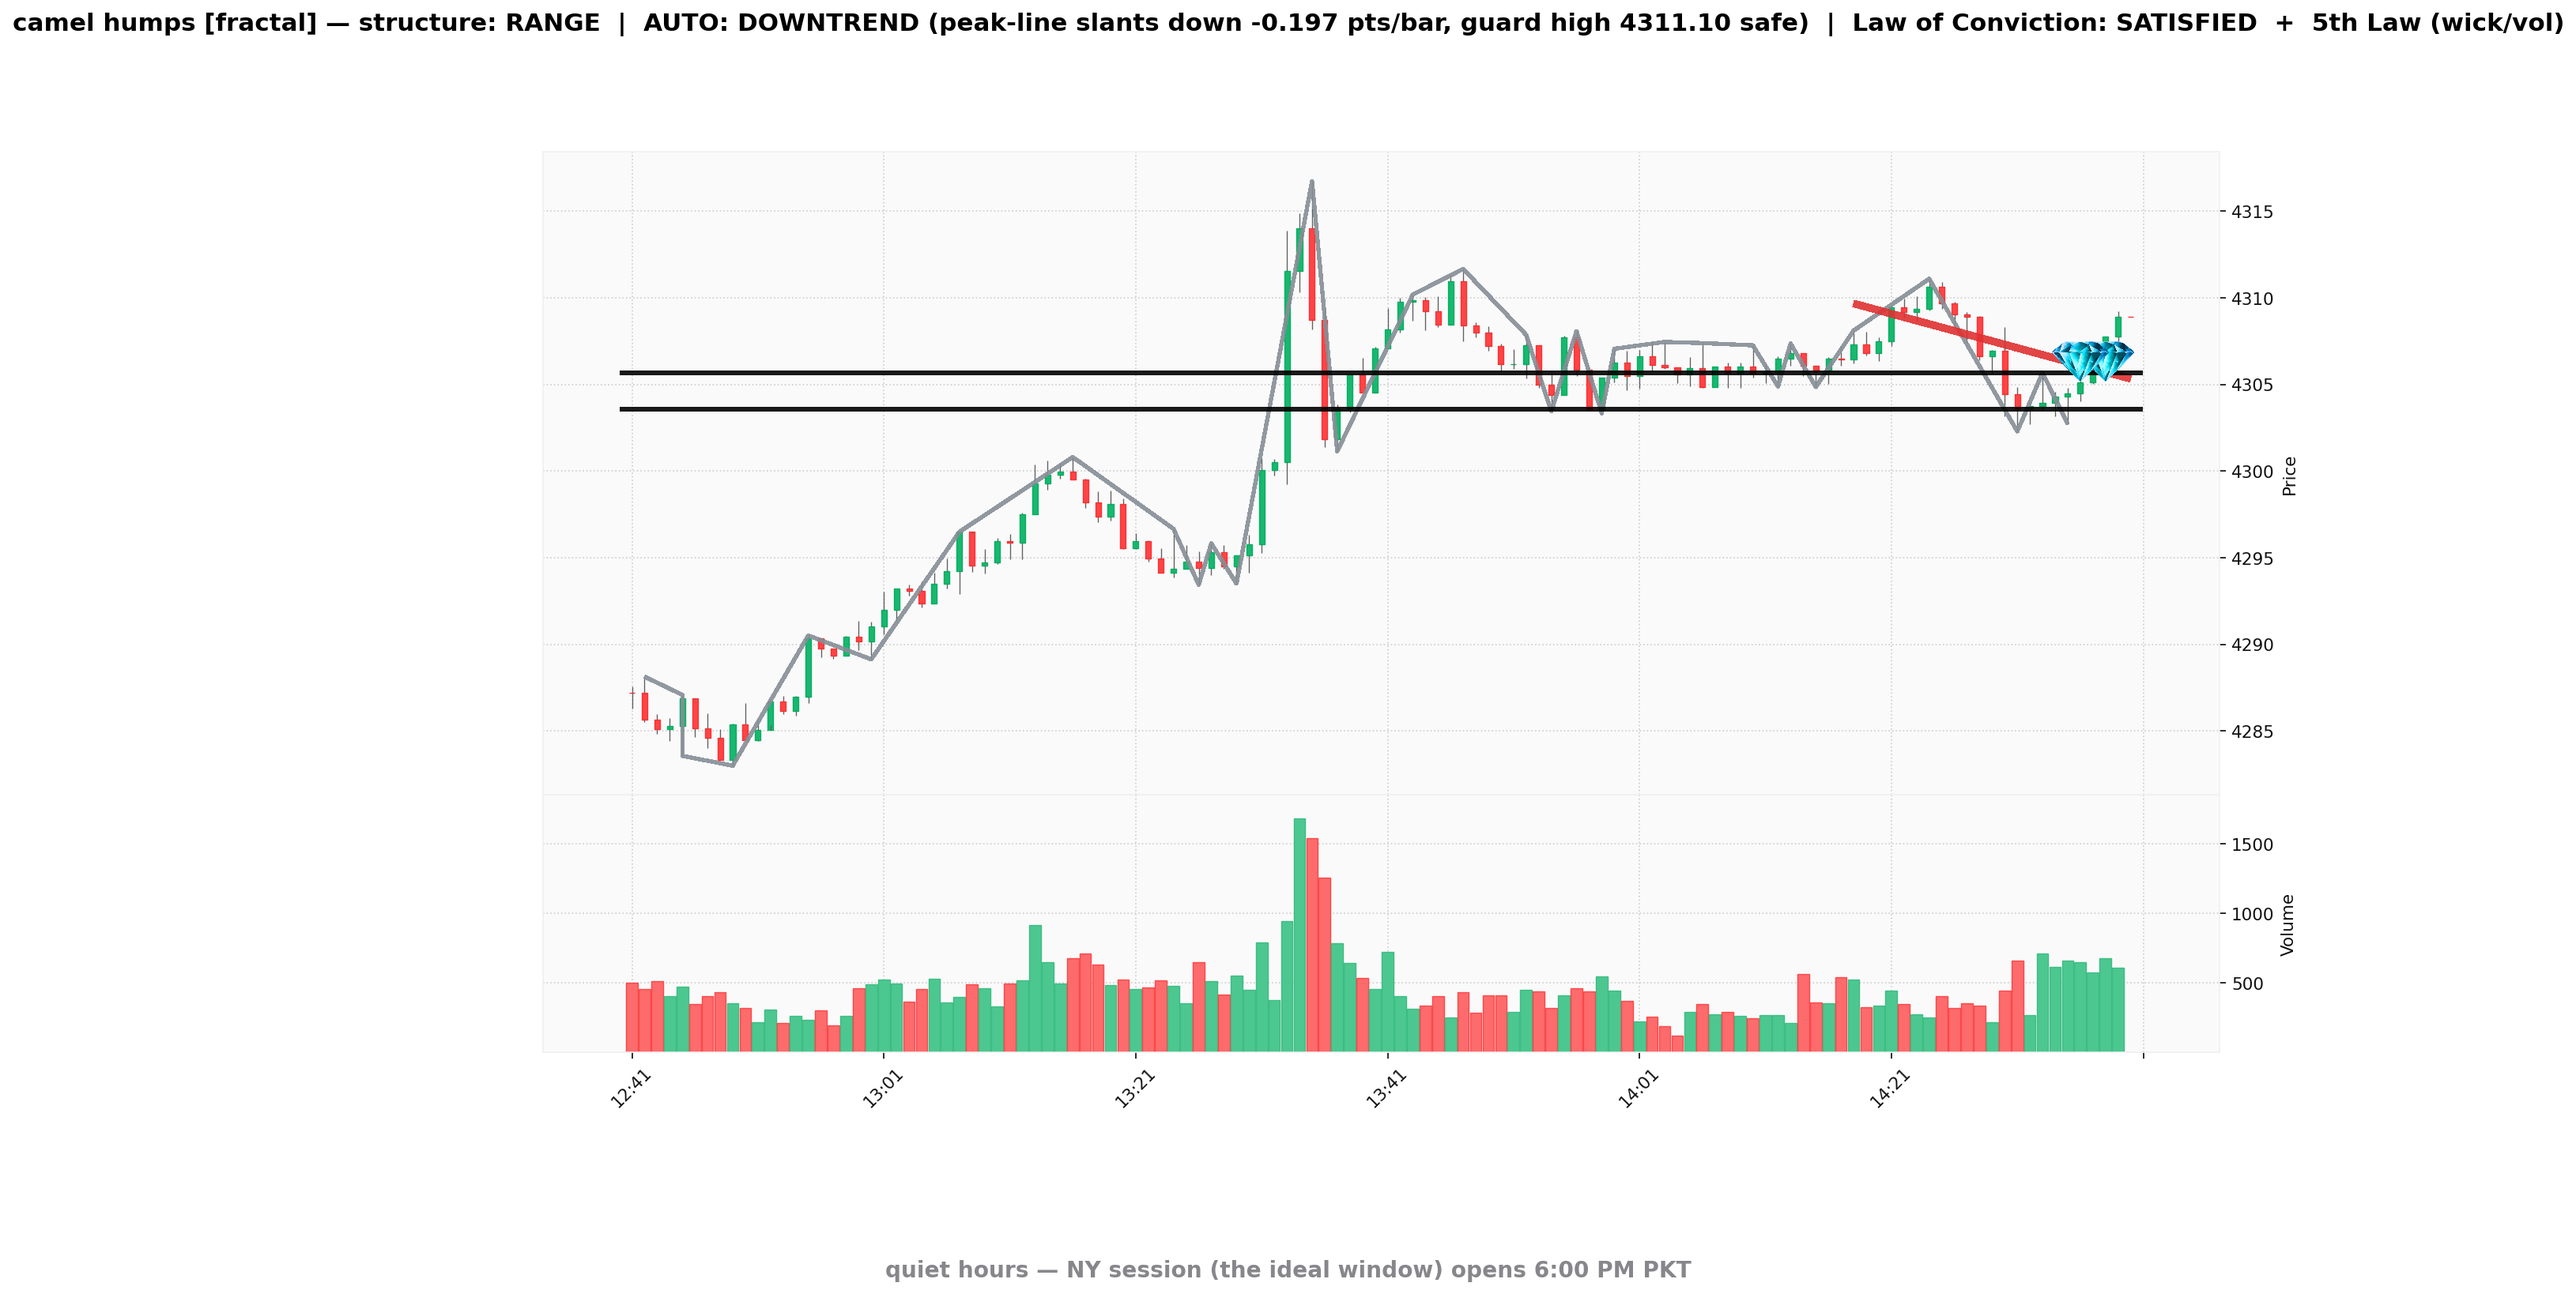
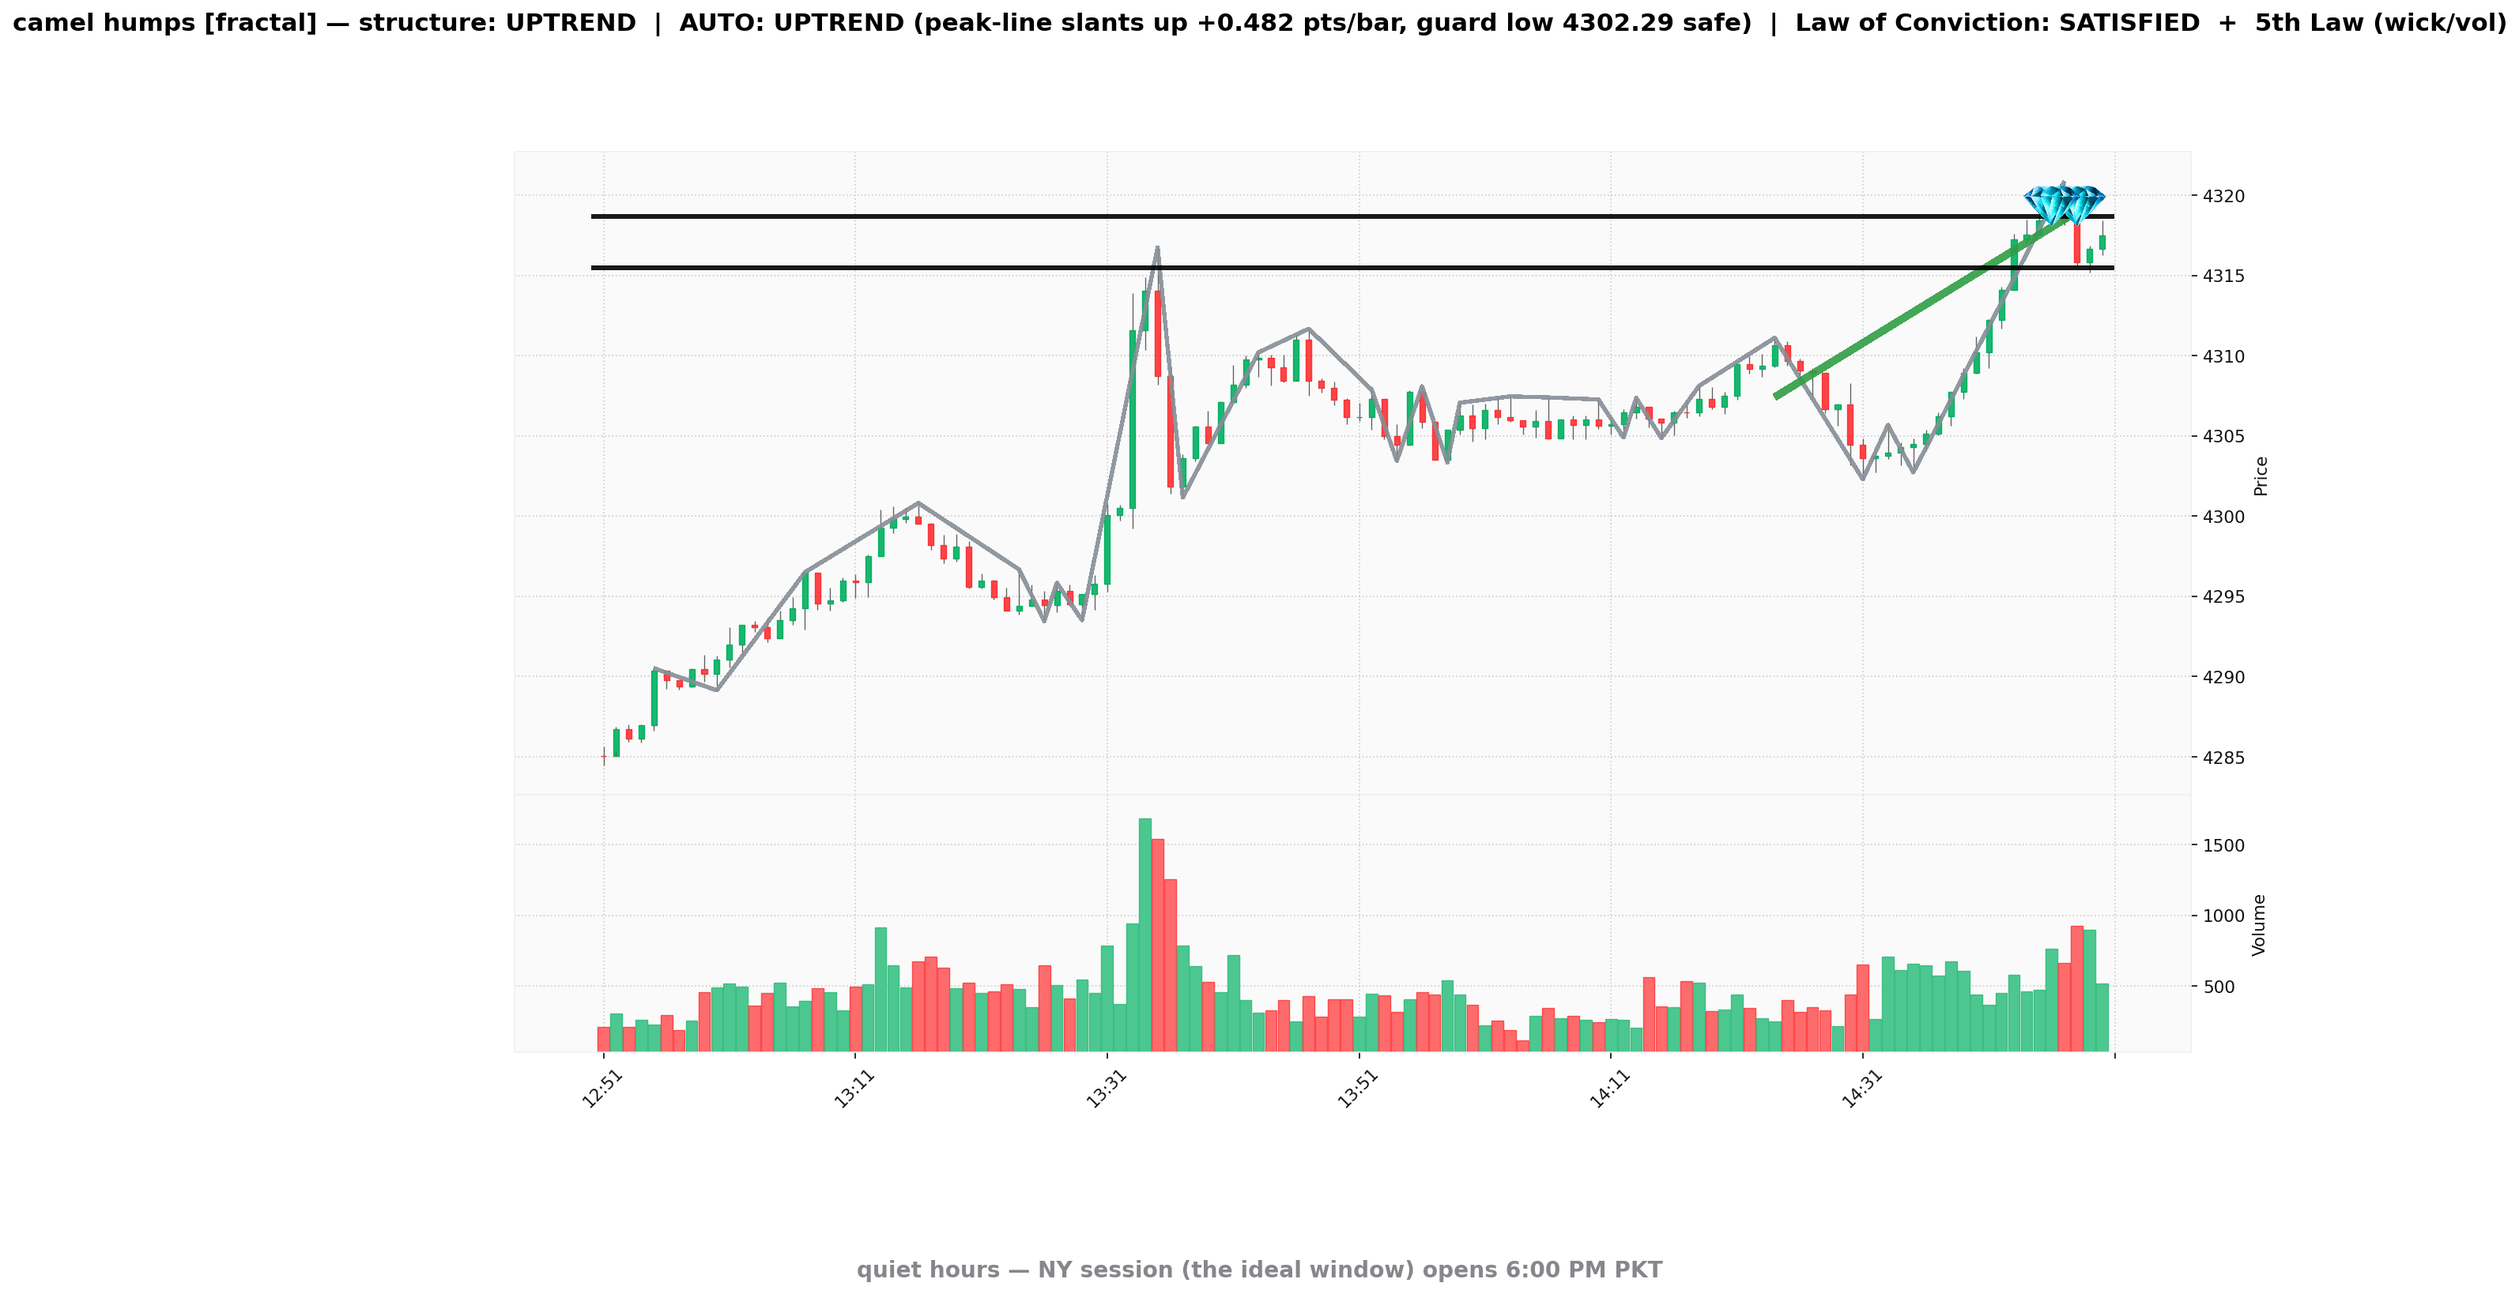
Forensic chart readability (Zee's two catches): (1) candles were squeezed because data-coordinate labels stretched the y-axis — labels now use pixel offsets and both charts get an explicit tight y-range (candles fill ~70% of the pane); (2) the UHV marker was nearly invisible and its label clipped of

diff --git a/monitor/strategy_lab/door_vs_close.py b/monitor/strategy_lab/door_vs_close.py
@@ -1,0 +1,120 @@
+"""door_vs_close.py — INTRABAR vs CANDLE-CLOSE entries, thoroughly (Zee 2026-08-07).
+
+Same UHV lamps, three entry rules, the CURRENT exit model (v1.74: 2-bar grace,
+3pt parachute during grace, 1pt ghost after, ratchet trail):
+
+  A) DOOR      — enter the moment price crosses the lamp intrabar (price = lamp)
+  B) CLOSE     — enter at the close of the first candle that CLOSES beyond the lamp
+                 in the right colour (price = that close, i.e. a worse fill)
+  C) LAW       — B plus Zee's fundamental law: momentum body (>=0.5) AND breakout
+                 volume LOWER than the UHV's
+
+Also splits the door by what its candle eventually did, so we can see how much of
+the door's edge was really "trades that were lawful anyway".
+"""
+from __future__ import annotations
+import csv, sys, statistics
+sys.stdout.reconfigure(encoding="utf-8")
+from datetime import datetime, timezone
+from pathlib import Path
+
+sys.path.insert(0, "monitor"); sys.path.insert(0, "monitor/strategy_lab")
+import oanda_live_matcher as M
+import build_entry_review_m5 as B
+for k, v in M.CFG.items():
+    setattr(B, k, v)
+
+GRACE = 2
+
+
+def load_bars():
+    seen = {}
+    for src in ("monitor/strategy_lab/oanda_m1_history.csv",
+                r"C:/Users/zeesh/AppData/Roaming/MetaQuotes/Terminal/Common/Files/oanda_m1.csv"):
+        try:
+            for r in csv.DictReader(open(src, encoding="utf-8")):
+                seen[r["time_unix"]] = r
+        except FileNotFoundError:
+            pass
+    out = []
+    for k in sorted(seen, key=int):
+        r = seen[k]
+        out.append(B.Bar(datetime.fromtimestamp(int(k), tz=timezone.utc).replace(tzinfo=None),
+                         float(r["open"]), float(r["high"]), float(r["low"]),
+                         float(r["close"]), int(float(r["volume"]))))
+    return out
+
+
+def sim(bars, i, side, entry, cost):
+    """v1.74 exits: grace bars with only the 3pt parachute, then 1pt ghost, ratchet."""
+    buy = side == "BUY"
+    armed, peak = False, 0.0
+    for k, b in enumerate(bars[i + 1:], 1):
+        adv = (entry - b.l) if buy else (b.h - entry)
+        fav = (b.h - entry) if buy else (entry - b.l)
+        if k <= GRACE and adv >= 3.0:
+            return -3.0 - cost
+        if k > GRACE and not armed and adv >= 1.0:
+            return -1.0 - cost
+        if fav >= 0.3:
+            armed = True
+        if armed:
+            peak = max(peak, fav)
+            if peak - ((b.l - entry) if buy else (entry - b.h)) >= max(0.2, 0.3 * peak):
+                return peak - max(0.2, 0.3 * peak) - cost
+    return None
+
+
+def rep(name, vals):
+    vals = [v for v in vals if v is not None]
+    if not vals:
+        print(f"  {name:38s}  (none)")
+        return
+    w = sum(1 for v in vals if v > 0)
+    print(f"  {name:38s} n={len(vals):3d}  WR {w/len(vals)*100:3.0f}%  "
+          f"avg {statistics.mean(vals)*10:+6.2f}$  net {sum(vals)*10:+8.2f}$")
+
+
+if __name__ == "__main__":
+    bars = load_bars()
+    setups = list({(s["open_t"], s["side"]): s for s in B.detect_full(bars)}.values())
+    print(f"tape {len(bars)} bars ({bars[0].t:%m-%d %H:%M}Z -> {bars[-1].t:%m-%d %H:%M}Z) · "
+          f"{len(setups)} UHV lamps\n")
+
+    for cost, label in ((0.07, "RAW-account cost 0.07pt"), (0.20, "STANDARD cost 0.20pt")):
+        door, close, law = [], [], []
+        door_lawful, door_unlawful = [], []
+        for s in setups:
+            u = next((k for k, b in enumerate(bars) if b.t == s["uhv_t"]), None)
+            ci = next((k for k, b in enumerate(bars) if b.t == s["open_t"]), None)
+            if u is None or ci is None:
+                continue
+            side = s["side"]
+            lamp = bars[u].h if side == "BUY" else bars[u].l
+            # A) DOOR — first wick-cross after the UHV, filled AT the lamp
+            di = None
+            for k in range(u + 1, min(u + 20, len(bars) - 3)):
+                if (bars[k].h > lamp) if side == "BUY" else (bars[k].l < lamp):
+                    di = k
+                    break
+            if di is not None:
+                r = sim(bars, di, side, lamp, cost)
+                door.append(r)
+                bk = bars[di]
+                lawful = ((bk.is_bull if side == "BUY" else bk.is_bear)
+                          and ((bk.c > lamp) if side == "BUY" else (bk.c < lamp))
+                          and bk.body_ratio >= 0.5 and bk.v < bars[u].v)
+                (door_lawful if lawful else door_unlawful).append(r)
+            # B) CLOSE — the detector's own entry (closes beyond, right colour)
+            close.append(sim(bars, ci, side, s["entry"], cost))
+            # C) LAW — B + momentum body + lower volume than the UHV
+            if bars[ci].body_ratio >= 0.5 and s["b_vol"] < s["uhv_vol"]:
+                law.append(sim(bars, ci, side, s["entry"], cost))
+
+        print(f"── {label} ──")
+        rep("A) DOOR — intrabar cross at the lamp", door)
+        rep("     ...whose candle was LAWFUL", door_lawful)
+        rep("     ...whose candle was UNLAWFUL", door_unlawful)
+        rep("B) CLOSE — closes beyond, right colour", close)
+        rep("C) LAW — close + momentum + lower vol", law)
+        print()

diff --git a/monitor/forensic_chart.py b/monitor/forensic_chart.py
@@ -187,22 +187,35 @@ def draw_trade(broker_ts, side, exit_px, out=None):
                          hlines=hl, returnfig=True, title=ttl)
     ax = axes[0]
     if ui is not None:
-        ax.axvspan(ui - 0.45, ui + 0.45, color="#7048e8", alpha=0.16)
-        ax.annotate("UHV / trigger lines", xy=(ui, uhv[2]),
-                    xytext=(max(ui - 5, 1), uhv[2] + (win[-1][2] - win[-1][3]) * 2.5),
-                    fontsize=12, fontweight="bold", color="#7048e8", ha="center",
-                    arrowprops=dict(arrowstyle="->", lw=2.2, color="#7048e8"))
+        # Zee 2026-08-07: the UHV band was too faint and its label clipped off the
+        # top — now a solid band + full-height dashed line + an always-drawn label.
+        ax.axvspan(ui - 0.5, ui + 0.5, color="#7048e8", alpha=0.30, zorder=0)
+        ax.axvline(ui, color="#7048e8", lw=1.6, ls="--", alpha=0.9, zorder=1)
+        # offset-POINT labels never stretch the y-axis (Zee 2026-08-07: the candles
+        # were squeezed into a corner because data-coordinate text expanded the scale)
+        ax.annotate("UHV", xy=(ui, uhv[3]), textcoords="offset points", xytext=(0, -26),
+                    fontsize=14, fontweight="bold", color="white", ha="center",
+                    annotation_clip=False, zorder=6,
+                    bbox=dict(boxstyle="round,pad=0.35", fc="#7048e8", ec="none"),
+                    arrowprops=dict(arrowstyle="->", lw=2.4, color="#7048e8"))
     if bi is not None:
-        ax.axvspan(bi - 0.45, bi + 0.45, color="#e03131", alpha=0.16)
-        ax.annotate("BO candle - fired here", xy=(bi, win[bi][3]),
-                    xytext=(bi, win[bi][3] - (win[-1][2] - win[-1][3]) * 3),
-                    fontsize=12, fontweight="bold", color="#e03131", ha="center",
-                    arrowprops=dict(arrowstyle="->", lw=2.2, color="#e03131"))
+        ax.axvspan(bi - 0.5, bi + 0.5, color="#e03131", alpha=0.30, zorder=0)
+        ax.axvline(bi, color="#e03131", lw=1.6, ls="--", alpha=0.9, zorder=1)
+        ax.annotate("BO", xy=(bi, win[bi][2]), textcoords="offset points", xytext=(0, 26),
+                    fontsize=14, fontweight="bold", color="white", ha="center",
+                    annotation_clip=False, zorder=6,
+                    bbox=dict(boxstyle="round,pad=0.35", fc="#e03131", ec="none"),
+                    arrowprops=dict(arrowstyle="->", lw=2.4, color="#e03131"))
     if exit_px:
         ax.axhline(exit_px, color="#f08c00", lw=1.6)
         ax.text(len(win) - 1, exit_px, f"  exit {exit_px:.2f}", color="#f08c00",
                 fontsize=11, fontweight="bold", va="center")
     ax.axhline(r["lamp"], color="#1c7ed6", lw=1.2, ls=":")
+    # TIGHT Y-RANGE: candles fill the pane instead of clumping (Zee's catch)
+    lo = min(x[3] for x in win); hi = max(x[2] for x in win)
+    if exit_px: lo, hi = min(lo, exit_px), max(hi, exit_px)
+    pad = max((hi - lo) * 0.16, 0.35)   # room for the UHV/BO labels
+    ax.set_ylim(lo - pad, hi + pad)
     out = out or (Path(__file__).parent / "setup_labels" /
                   f"forensic_{broker_ts[11:].replace(':', '')}.png")
     fig.savefig(str(out), dpi=100, bbox_inches="tight")

diff --git a/monitor/trend_eyes.py b/monitor/trend_eyes.py
@@ -367,6 +367,14 @@ def draw(bars, back=120, out=None):
     heart_xy = locals().get("heart_xy")
     kw["returnfig"] = True
     fig, _axes = mpf.plot(df, **kw)
+    # TIGHT Y-RANGE (Zee 2026-08-07): keep the candles filling the pane — box lines,
+    # diamonds and hearts must never stretch the scale and squash the price action.
+    try:
+        _lo = float(df["Low"].min()); _hi = float(df["High"].max())
+        _pad = max((_hi - _lo) * 0.08, 0.3)
+        _axes[0].set_ylim(_lo - _pad, _hi + _pad)
+    except Exception:
+        pass
     if heart_xy:
         _axes[0].text(heart_xy[0], heart_xy[1], "♥", fontsize=26,
                       color="#e03131", ha="center", va="center")
